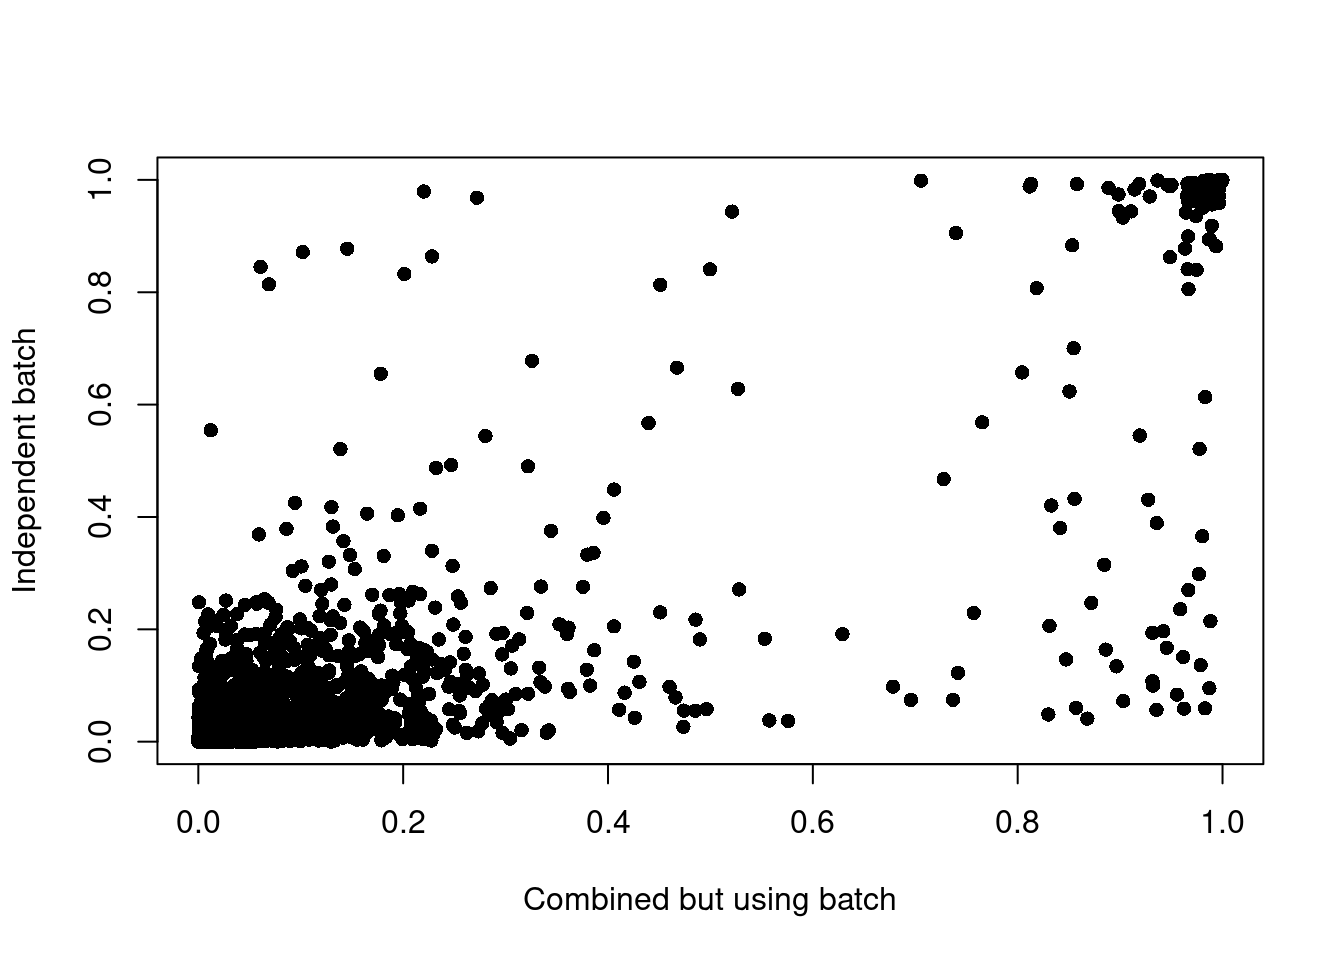
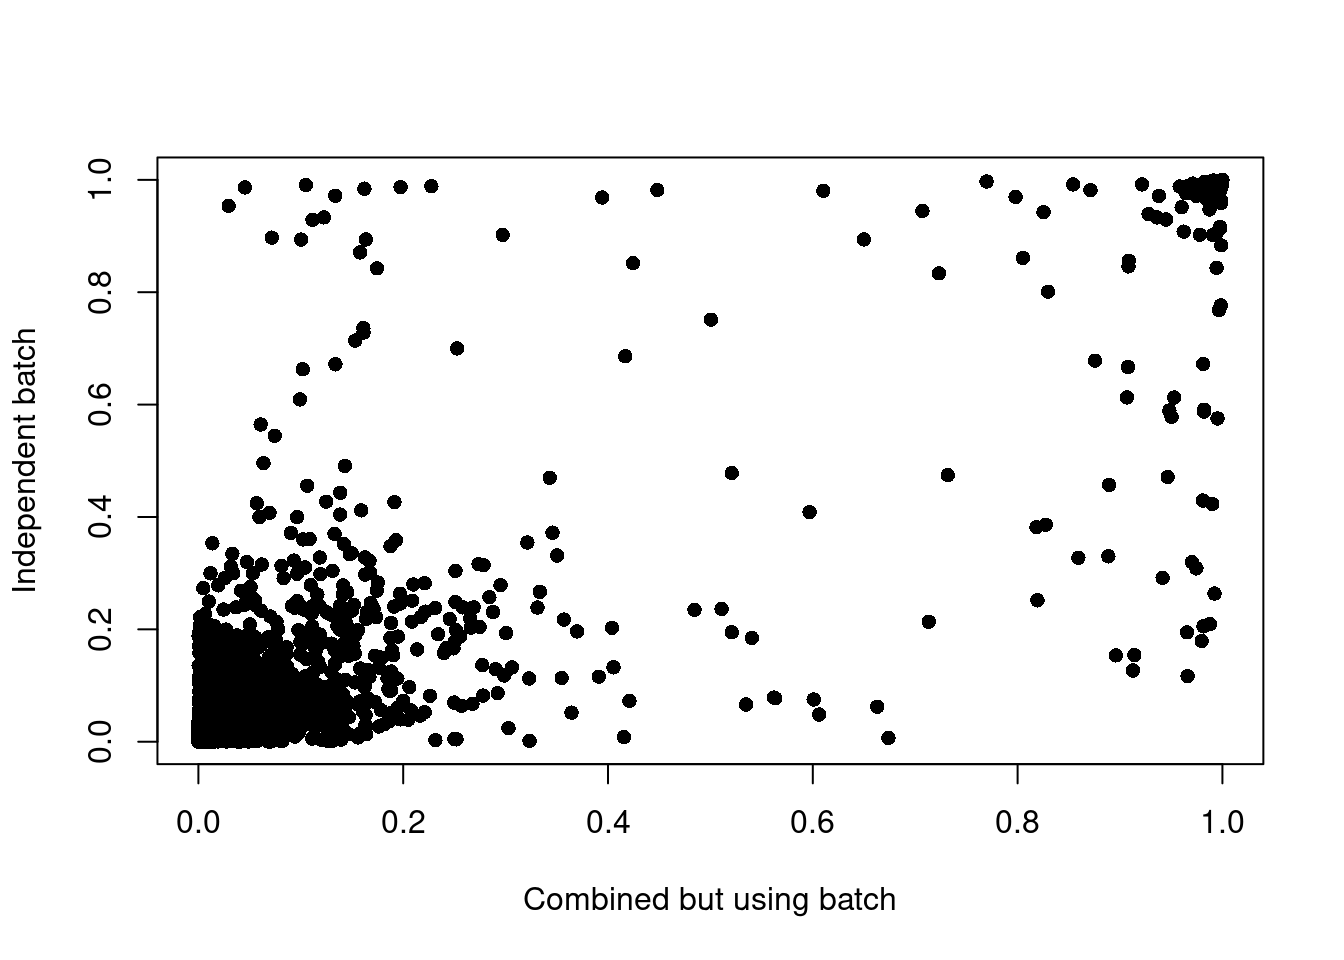
Build site.

diff --git a/docs/scdblfinder.html b/docs/scdblfinder.html
@@ -519,15 +519,15 @@ project makes it easier to run your code on other machines.</p>
 <div class="panel panel-default">
 <div class="panel-heading">
 <p class="panel-title">
-<a data-toggle="collapse" data-parent="#workflowr-checks" href="#strongRepositoryversionstrongahrefhttpsgithubcomdavetangmusetreecc8428f053fe26cb050434e535af9acc024b8344targetblankcc8428fa">
+<a data-toggle="collapse" data-parent="#workflowr-checks" href="#strongRepositoryversionstrongahrefhttpsgithubcomdavetangmusetreeb00c1a719ddc0c5c2d749c70d28cd2b0f7931e0dtargetblankb00c1a7a">
 <span class="glyphicon glyphicon-ok text-success"
 aria-hidden="true"></span> <strong>Repository version:</strong>
-<a href="https://github.com/davetang/muse/tree/cc8428f053fe26cb050434e535af9acc024b8344" target="_blank">cc8428f</a>
+<a href="https://github.com/davetang/muse/tree/b00c1a719ddc0c5c2d749c70d28cd2b0f7931e0d" target="_blank">b00c1a7</a>
 </a>
 </p>
 </div>
 <div
[2 lines of base64/hex data omitted]
 class="panel-collapse collapse">
 <div class="panel-body">
 <p>
@@ -537,7 +537,7 @@ reproducibility.
 </p>
 <p>
 The results in this page were generated with repository version
-<a href="https://github.com/davetang/muse/tree/cc8428f053fe26cb050434e535af9acc024b8344" target="_blank">cc8428f</a>.
+<a href="https://github.com/davetang/muse/tree/b00c1a719ddc0c5c2d749c70d28cd2b0f7931e0d" target="_blank">b00c1a7</a>.
 See the <em>Past versions</em> tab to see a history of the changes made
 to the R Markdown and HTML files.
 </p>
@@ -573,16 +573,15 @@ Ignored files:
     Ignored:    data/pbmc20k_seurat/
     Ignored:    data/pbmc3k/
     Ignored:    data/pbmc4k_filtered_gene_bc_matrices.tar.gz
+    Ignored:    data/pbmc_1k_v3_raw_feature_bc_matrix.h5
     Ignored:    data/refdata-gex-GRCh38-2020-A.tar.gz
     Ignored:    data/seurat_1m_neuron.rds
     Ignored:    data/t_3k_filtered_gene_bc_matrices.tar.gz
     Ignored:    r_packages_4.4.1/
 
 Untracked files:
-    Untracked:  Nothobranchius_furzeri.Nfu_20140520.113.gtf.gz
     Untracked:  analysis/bioc_scrnaseq.Rmd
     Untracked:  data/pbmc_1k_v3_filtered_feature_bc_matrix.h5
-    Untracked:  data/pbmc_1k_v3_raw_feature_bc_matrix.h5
 
 </code></pre>
 <p>
@@ -627,6 +626,40 @@ Message
 </tr>
 </thead>
 <tbody>
+<tr>
+<td>
+Rmd
+</td>
+<td>
+<a href="https://github.com/davetang/muse/blob/b00c1a719ddc0c5c2d749c70d28cd2b0f7931e0d/analysis/scdblfinder.Rmd" target="_blank">b00c1a7</a>
+</td>
+<td>
+Dave Tang
+</td>
+<td>
+2025-03-05
+</td>
+<td>
+Set seed and compare results
+</td>
+</tr>
+<tr>
+<td>
+html
+</td>
+<td>
+<a href="https://rawcdn.githack.com/davetang/muse/7738b4a56bb39472701a97e4ffcd7fdd26aead82/docs/scdblfinder.html" target="_blank">7738b4a</a>
+</td>
+<td>
+Dave Tang
+</td>
+<td>
+2025-03-05
+</td>
+<td>
+Build site.
+</td>
+</tr>
 <tr>
 <td>
 Rmd
@@ -766,34 +799,62 @@ altExpNames(0):</code></pre>
 <div id="predict-doublets" class="section level2">
 <h2>Predict doublets</h2>
 <p>Run <code>scDblFinder()</code>.</p>
-<pre class="r"><code>pbmc1k.pred &lt;- scDblFinder(pbmc1k)</code></pre>
+<pre class="r"><code>set.seed(1984)
+scDblFinder(pbmc1k) |&gt;
+  colData() |&gt;
+  as.data.frame() -&gt; pbmc1k.pred</code></pre>
 <pre><code>Creating ~1500 artificial doublets...</code></pre>
 <pre><code>Dimensional reduction</code></pre>
 <pre><code>Evaluating kNN...</code></pre>
 <pre><code>Training model...</code></pre>
-<pre><code>iter=0, 155 cells excluded from training.</code></pre>
-<pre><code>iter=1, 142 cells excluded from training.</code></pre>
-<pre><code>iter=2, 135 cells excluded from training.</code></pre>
-<pre><code>Threshold found:0.294</code></pre>
-<pre><code>26 (2.1%) doublets called</code></pre>
-<pre class="r"><code>colData(pbmc1k.pred) |&gt;
-  as.data.frame() -&gt; pbmc1k.pred
-
-head(pbmc1k.pred)</code></pre>
+<pre><code>iter=0, 163 cells excluded from training.</code></pre>
+<pre><code>iter=1, 139 cells excluded from training.</code></pre>
+<pre><code>iter=2, 128 cells excluded from training.</code></pre>
+<pre><code>Threshold found:0.354</code></pre>
+<pre><code>28 (2.3%) doublets called</code></pre>
+<pre class="r"><code>set.seed(1984)
+scDblFinder(pbmc1k) |&gt;
+  colData() |&gt;
+  as.data.frame() -&gt; pbmc1k.pred2</code></pre>
+<pre><code>Creating ~1500 artificial doublets...</code></pre>
+<pre><code>Dimensional reduction</code></pre>
+<pre><code>Evaluating kNN...</code></pre>
+<pre><code>Training model...</code></pre>
+<pre><code>iter=0, 163 cells excluded from training.</code></pre>
+<pre><code>iter=1, 139 cells excluded from training.</code></pre>
+<pre><code>iter=2, 128 cells excluded from training.</code></pre>
+<pre><code>Threshold found:0.354</code></pre>
+<pre><code>28 (2.3%) doublets called</code></pre>
+<pre class="r"><code>head(pbmc1k.pred)</code></pre>
 <pre><code>                   scDblFinder.class scDblFinder.score scDblFinder.weighted
-AAACCCAAGGAGAGTA-1           singlet      0.0169715248           0.40543264
-AAACGCTTCAGCCCAG-1           singlet      0.0008992357           0.29487536
-AAAGAACAGACGACTG-1           singlet      0.0003129665           0.21450453
-AAAGAACCAATGGCAG-1           singlet      0.0005328555           0.22582183
-AAAGAACGTCTGCAAT-1           singlet      0.0127416188           0.37730614
-AAAGGATAGTAGACAT-1           singlet      0.0020924010           0.07760762
+AAACCCAAGGAGAGTA-1           singlet       0.045929316            0.4312649
+AAACGCTTCAGCCCAG-1           singlet       0.004174906            0.2353700
+AAAGAACAGACGACTG-1           singlet       0.012409605            0.4142709
+AAAGAACCAATGGCAG-1           singlet       0.003421359            0.2900510
+AAAGAACGTCTGCAAT-1           singlet       0.008659453            0.2425525
+AAAGGATAGTAGACAT-1           singlet       0.016740253            0.1398486
                    scDblFinder.cxds_score
-AAACCCAAGGAGAGTA-1            0.006469792
-AAACGCTTCAGCCCAG-1            0.049250538
-AAAGAACAGACGACTG-1            0.074387442
-AAAGAACCAATGGCAG-1            0.050214668
-AAAGAACGTCTGCAAT-1            0.103131556
-AAAGGATAGTAGACAT-1            0.075818423</code></pre>
+AAACCCAAGGAGAGTA-1            0.005120514
+AAACGCTTCAGCCCAG-1            0.065461443
+AAAGAACAGACGACTG-1            0.078274898
+AAAGAACCAATGGCAG-1            0.056915421
+AAAGAACGTCTGCAAT-1            0.114158769
+AAAGGATAGTAGACAT-1            0.094354705</code></pre>
+<pre class="r"><code>head(pbmc1k.pred2)</code></pre>
+<pre><code>                   scDblFinder.class scDblFinder.score scDblFinder.weighted
+AAACCCAAGGAGAGTA-1           singlet       0.045929316            0.4312649
+AAACGCTTCAGCCCAG-1           singlet       0.004174906            0.2353700
+AAAGAACAGACGACTG-1           singlet       0.012409605            0.4142709
+AAAGAACCAATGGCAG-1           singlet       0.003421359            0.2900510
+AAAGAACGTCTGCAAT-1           singlet       0.008659453            0.2425525
+AAAGGATAGTAGACAT-1           singlet       0.016740253            0.1398486
+                   scDblFinder.cxds_score
+AAACCCAAGGAGAGTA-1            0.005120514
+AAACGCTTCAGCCCAG-1            0.065461443
+AAAGAACAGACGACTG-1            0.078274898
+AAAGAACCAATGGCAG-1            0.056915421
+AAAGAACGTCTGCAAT-1            0.114158769
+AAAGGATAGTAGACAT-1            0.094354705</code></pre>
 <p>Plot scores per label.</p>
 <pre class="r"><code>boxplot(scDblFinder.score ~ scDblFinder.class, data = pbmc1k.pred, pch = 16)</code></pre>
 <p><img src="figure/scdblfinder.Rmd/boxplot-1.png" width="672" style="display: block; margin: auto;" /></p>
@@ -834,6 +895,12 @@ Dave Tang
 </table>
 </div>
 </div>
+<p>Compare runs.</p>
+<pre class="r"><code>x &lt;- pbmc1k.pred$scDblFinder.score
+y &lt;- pbmc1k.pred2$scDblFinder.score
+
+plot(x, y, pch = 16)</code></pre>
+<p><img src="figure/scdblfinder.Rmd/deterministic-1.png" width="672" style="display: block; margin: auto;" /></p>
 </div>
 <div id="data-subset" class="section level2">
 <h2>Data subset</h2>
@@ -975,19 +1042,21 @@ multiplexed using cell hashes, what you want to give here are the
 different batches/wells (i.e. independent captures, since doublets
 cannot arise across them) rather than biological samples.</p>
 </blockquote>
-<pre class="r"><code>pbmc5k.pred &lt;- scDblFinder(pbmc5k, samples=&quot;donor&quot;)</code></pre>
+<pre class="r"><code>set.seed(1984)
+pbmc5k.pred &lt;- scDblFinder(pbmc5k, samples=&quot;donor&quot;)</code></pre>
 <pre><code>  |                                                                              |                                                                      |   0%  |                                                                              |===================================                                   |  50%  |                                                                              |======================================================================| 100%</code></pre>
 <p>Predict on single batch.</p>
-<pre class="r"><code>pbmc5k_1.pred &lt;- scDblFinder(pbmc5k_1)</code></pre>
+<pre class="r"><code>set.seed(1984)
+pbmc5k_1.pred &lt;- scDblFinder(pbmc5k_1)</code></pre>
 <pre><code>Creating ~4568 artificial doublets...</code></pre>
 <pre><code>Dimensional reduction</code></pre>
 <pre><code>Evaluating kNN...</code></pre>
 <pre><code>Training model...</code></pre>
-<pre><code>iter=0, 405 cells excluded from training.</code></pre>
-<pre><code>iter=1, 397 cells excluded from training.</code></pre>
-<pre><code>iter=2, 384 cells excluded from training.</code></pre>
-<pre><code>Threshold found:0.381</code></pre>
-<pre><code>223 (3.9%) doublets called</code></pre>
+<pre><code>iter=0, 452 cells excluded from training.</code></pre>
+<pre><code>iter=1, 456 cells excluded from training.</code></pre>
+<pre><code>iter=2, 457 cells excluded from training.</code></pre>
+<pre><code>Threshold found:0.337</code></pre>
+<pre><code>263 (4.6%) doublets called</code></pre>
 <p>Compare results.</p>
 <pre class="r"><code>idx &lt;- match(colnames(pbmc5k_1.pred), colnames(pbmc5k.pred))
 
@@ -996,15 +1065,52 @@ y &lt;- pbmc5k_1.pred$scDblFinder.score
 
 plot(x, y, pch = 16, xlab = &quot;Combined but using batch&quot;, ylab = &quot;Independent batch&quot;)</code></pre>
 <p><img src="figure/scdblfinder.Rmd/compare_batch_run-1.png" width="672" style="display: block; margin: auto;" /></p>
+<p>
+<button type="button" class="btn btn-default btn-xs btn-workflowr btn-workflowr-fig" data-toggle="collapse" data-target="#fig-compare_batch_run-1">
+Past versions of compare_batch_run-1.png
+</button>
+</p>
+<div id="fig-compare_batch_run-1" class="collapse">
+<div class="table-responsive">
+<table class="table table-condensed table-hover">
+<thead>
+<tr>
+<th>
+Version
+</th>
+<th>
+Author
+</th>
+<th>
+Date
+</th>
+</tr>
+</thead>
+<tbody>
+<tr>
+<td>
+<a href="https://github.com/davetang/muse/blob/7738b4a56bb39472701a97e4ffcd7fdd26aead82/docs/figure/scdblfinder.Rmd/compare_batch_run-1.png" target="_blank">7738b4a</a>
+</td>
+<td>
+Dave Tang
+</td>
+<td>
+2025-03-05
+</td>
+</tr>
+</tbody>
+</table>
+</div>
+</div>
 <p>Numbers.</p>
 <pre class="r"><code>table(pbmc5k.pred[, idx]$scDblFinder.class)</code></pre>
 <pre><code>
 singlet doublet 
-   5453     257 </code></pre>
+   5462     248 </code></pre>
 <pre class="r"><code>table(pbmc5k_1.pred$scDblFinder.class)</code></pre>
 <pre><code>
 singlet doublet 
-   5487     223 </code></pre>
+   5447     263 </code></pre>
 <br>
 <p>
 <button type="button" class="btn btn-default btn-workflowr btn-workflowr-sessioninfo" data-toggle="collapse" data-target="#workflowr-sessioninfo" style="display: block;">
